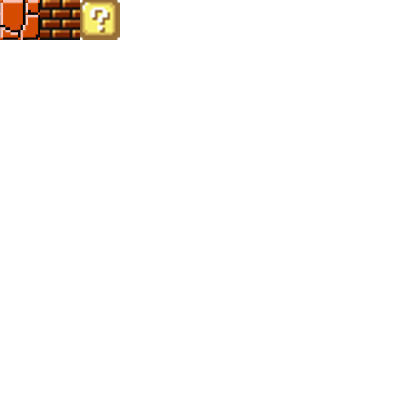
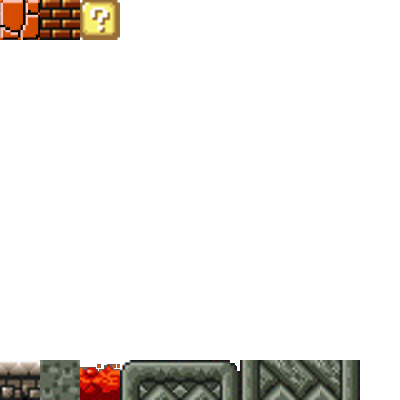
Se inicia el mapa del tercer mundo

Changed region(s): [[0.0, 0.9, 0.9, 1.0]]

diff --git a/Jugadores/Mapa/ControllerMapa.py b/Jugadores/Mapa/ControllerMapa.py
@@ -8,6 +8,7 @@ class MakeMapa:
     def __init__(self,mapa, sabana,suelos,general):
 
         self.mapa = mapa
+        print mapa
         self.sabana = sabana
         self.filas = len(self.mapa)
         self.col = len(self.mapa[0])
@@ -27,3 +28,36 @@ class MakeMapa:
                     m.setpos(j*40 , i*40)
                     self.suelos.add(m)
                     self.general.add(m)
+
+
+
+                #TERCER NIVEL
+                if self.mapa[i][j] == 91:
+
+                    m = suelo(self.sabana[0][9])
+                    m.setpos(j*40 , i*40)
+                    self.suelos.add(m)
+                    self.general.add(m)
+
+                if self.mapa[i][j] == 93:
+
+                    m = suelo(self.sabana[3][9])
+                    m.setpos(j*40 , i*40)
+                    self.suelos.add(m)
+                    self.general.add(m)
+
+                if self.mapa[i][j] == 94:
+
+                    m = suelo(self.sabana[4][9])
+                    m.setpos(j*40 , i*40)
+                    self.suelos.add(m)
+                    self.general.add(m)
+
+                if self.mapa[i][j] == 95:
+
+                    m = suelo(self.sabana[5][9])
+                    m.setpos(j*40 , i*40)
+                    self.suelos.add(m)
+                    self.general.add(m)
+
+                

diff --git a/nivel33.py b/nivel33.py
@@ -18,7 +18,7 @@ bolafuego = 'Objetos/boladefuego.png'
 mariofuego = 'Jugadores/imgJugador/MarioFuego.png'
 sabanamapas = 'Jugadores/Mapa/imgmapas/sabanamapas.png'
 
-mapa = ConfiguracionJson('Jugadores/Mapa/jsonmapas/nivel1.json')
+mapa = ConfiguracionJson('Jugadores/Mapa/jsonmapas/nivel3.json')
 def limiteMovMario(mario, limitemario):
 
     #valida cuando es el momneto de mover el mapa de mario
@@ -149,10 +149,10 @@ def Nivel1(pantalla):
         #ciclo de juego
 
         #proceso para mario recorra el mapa unicamente de izquierda a derecha
-        f_varx = limiteMovMario(mario, limitemario)#calculo de la pos del mario
-        f_x  = moverFondo(f_x, f_varx) #ubicacion en el archivo json
+        #f_varx = limiteMovMario(mario, limitemario)#calculo de la pos del mario
+        #f_x  = moverFondo(f_x, f_varx) #ubicacion en el archivo json
 
-        moverGrupoSprites(suelos, f_varx)#mueve todo lo que sea suelo, sabanamapas[0][0]
+        #moverGrupoSprites(suelos, f_varx)#mueve todo lo que sea suelo, sabanamapas[0][0]
 
 
         pantalla.fill(NEGRO)

diff --git a/configuraciones.py b/configuraciones.py
@@ -37,7 +37,16 @@ def recortar(archivo, an , al):
     return m
 
 
+def crearArreglo(fila, columnas):
 
+    """Funcion que crea un arreglo"""
+    arreglo = []
+    for i in range(fila):
+        fila = []
+        for j in range(columnas):
+            fila.append(0)
+        arreglo.append(fila)
+    return arreglo
 
 def ConfiguracionJson(archivo):
 
@@ -55,12 +64,8 @@ def ConfiguracionJson(archivo):
 
     #print  num_col, num_filas
 
-    mapa = []
-    for i in range(num_filas):
-        fila = []
-        for j in range(num_col):
-            fila.append(0)
-        mapa.append(fila)
+    mapa = crearArreglo(num_filas, num_col)
+
 
 
     k = 0

diff --git a/Jugadores/Mapa/MapaNivel1.py b/Jugadores/Mapa/MapaNivel1.py
@@ -1,5 +1,5 @@
 
-
+#EN este archivo se crea el elemento 1 de la sabanamapas
 import pygame
 from configuraciones import *
 
